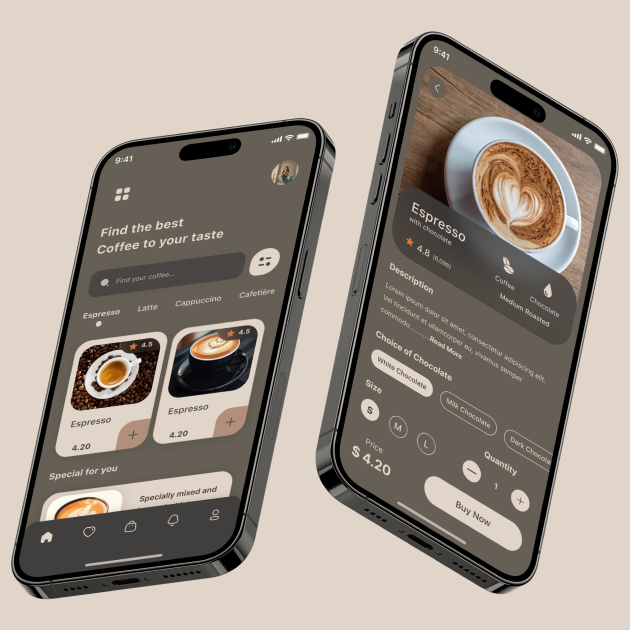
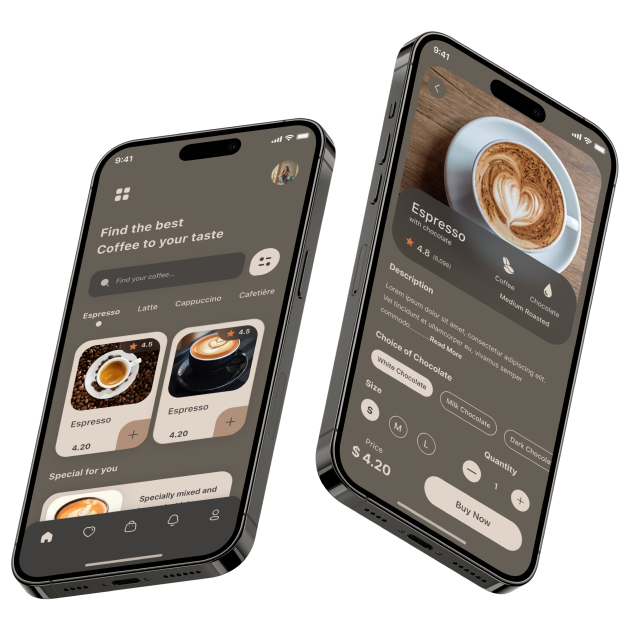
feat: add change color for dark theme

diff --git a/index.html b/index.html
@@ -252,10 +252,19 @@
                   Download the Resource app today and experience the comfort of ordering your
                   favorite coffee from wherever you are
                 </div>
-                <div class="app_btns">
+                <div class="app__btns">
                   <a href="#" class="app__btn btn">
                     <div class="btn__image">
-                      <img src="./assets/images/app.png" alt="play" class="btn__img" />
+                      <img
+                        src="./assets/images/app.png"
+                        alt="play"
+                        class="btn__img btn__img_light"
+                      />
+                      <img
+                        src="./assets/images/app-dark.png"
+                        alt="play"
+                        class="btn__img btn__img_hide"
+                      />
                     </div>
                     <div class="btn__text">
                       <span class="btn__title">Available on the</span>
@@ -264,7 +273,16 @@
                   </a>
                   <a href="#" class="app__btn btn">
                     <div class="btn__image">
-                      <img src="./assets/images/play.png" alt="play" class="btn__img" />
+                      <img
+                        src="./assets/images/play.png"
+                        alt="play"
+                        class="btn__img btn__img_light"
+                      />
+                      <img
+                        src="./assets/images/play-dark.png"
+                        alt="play"
+                        class="btn__img btn__img_hide"
+                      />
                     </div>
                     <div class="btn__text">
                       <span class="btn__title">Available on</span>

diff --git a/styles/style.css b/styles/style.css
@@ -760,6 +760,9 @@ body.dark {
 }
 .title {
 }
+.app__body.dark .app__title {
+  color: var(--dark-text-primary);
+}
 .app__subtitle {
   max-width: 630px;
   font-weight: 400;
@@ -767,12 +770,15 @@ body.dark {
   line-height: 150%;
   color: var(--text-primary);
 }
-.app_btns {
+.app__body.dark .app__subtitle {
+  color: var(--dark-text-primary);
+}
+.app__btns {
   display: flex;
   column-gap: 20px;
 }
 @media (max-width: 656.98px) {
-  .app_btns {
+  .app__btns {
     max-width: 200px;
     flex-direction: column;
     row-gap: 20px;
@@ -787,6 +793,11 @@ body.dark {
   border: 1px solid var(--background-container);
   border-radius: 100px;
   text-decoration: none;
+  color: var(--text-primary);
+}
+.app__body.dark .app__btns .btn {
+  color: var(--dark-text-primary);
+  border: 1px solid var(--dark-border-inverse);
 }
 .btn__image {
   max-width: 36px;
@@ -794,6 +805,15 @@ body.dark {
 
 .btn__img {
   width: 100%;
+}
+.btn__img_hide {
+  display: none;
+}
+.app__body.dark .app__btns .btn .btn__img_hide {
+  display: block;
+}
+.app__body.dark .app__btns .btn .btn__img_light {
+  display: none;
 }
 .btn__text {
   display: flex;
@@ -805,13 +825,11 @@ body.dark {
   font-size: 10px;
   line-height: 140%;
   text-align: center;
-  color: var(--text-primary);
 }
 .btn__name {
   font-weight: 600;
   font-size: 16px;
   line-height: 150%;
-  color: var(--text-primary);
 }
 .app_right {
   max-width: 630px;

diff --git a/scripts/script.js b/scripts/script.js
@@ -14,6 +14,8 @@ const resourceTitle = document.querySelector('.resource__title');
 const productsTitle = document.querySelector('.products__title');
 const slide = document.querySelector('.slide');
 const sliderPagination = document.querySelector('.slider__pagination');
+const app = document.querySelector('.app__body');
+const appBtns = document.querySelector('app__btns');
 
 window.addEventListener('resize', () => {
   if (parseInt(window.innerWidth) >= 819.98 && menu.classList.contains('active')) {
@@ -42,6 +44,7 @@ function toggleDark() {
   productsTitle.classList.toggle('dark');
   slide.classList.toggle('dark');
   sliderPagination.classList.toggle('dark');
+  app.classList.toggle('dark');
 }
 
 document.addEventListener('click', (e) => {
